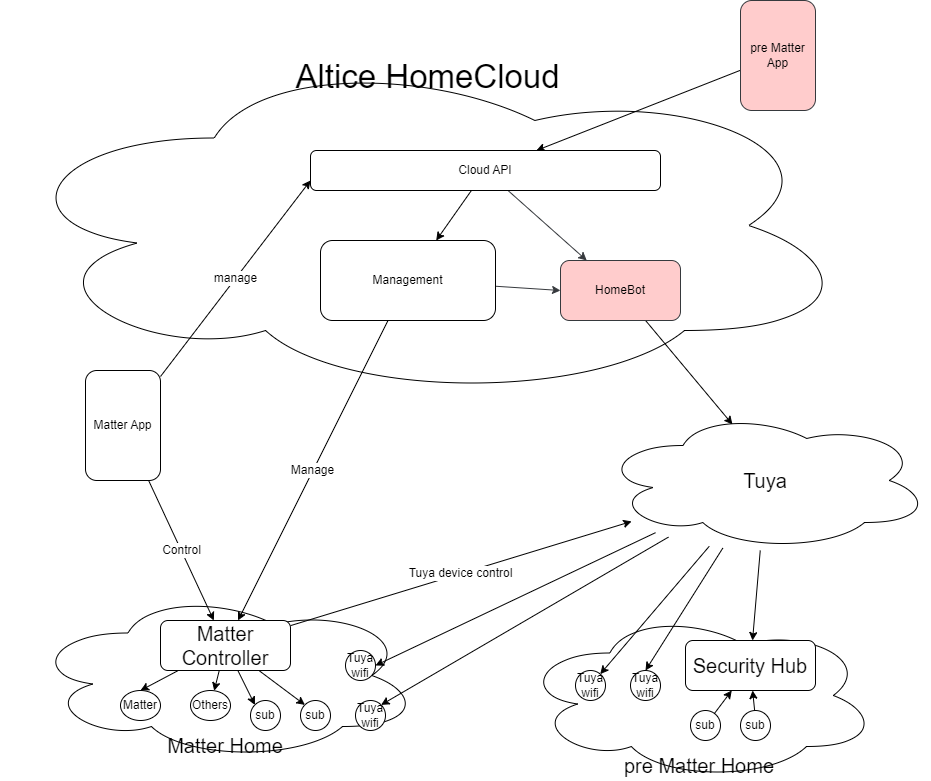
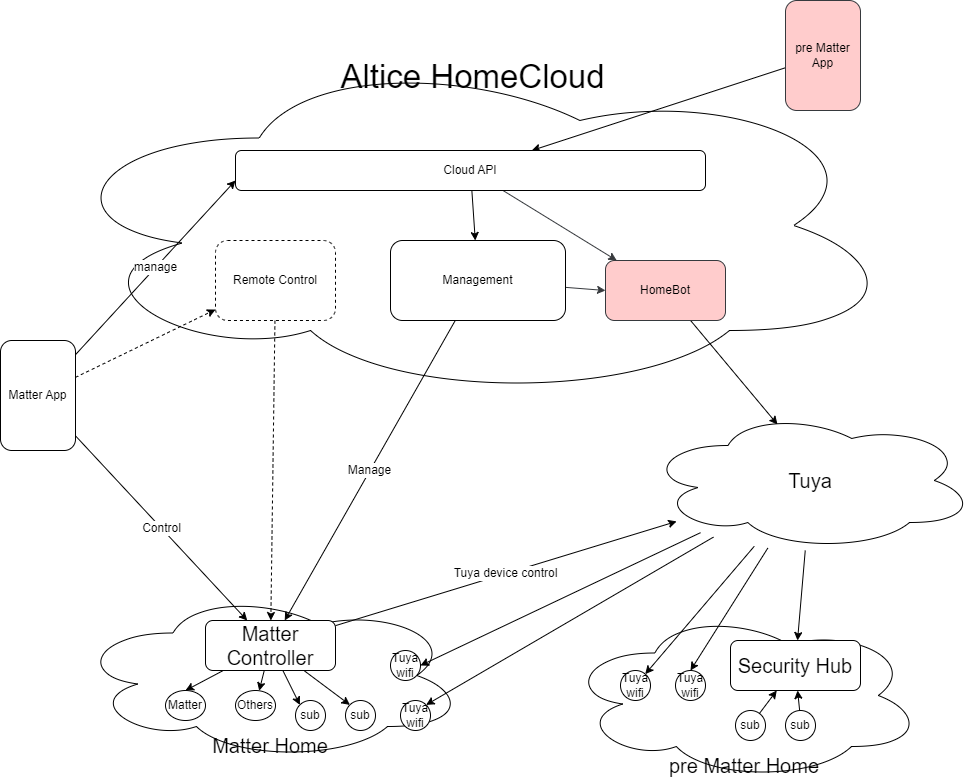
arch update

diff --git a/arch_matter.md b/arch_matter.md
@@ -60,15 +60,15 @@
 - Analytics
 - ...
 
-
-
-
+**[Management API functionalities](management_api.md)**
 
 
 ## Matter Arch with HomeBot (mid step)
 
 
 ![](Matter%20with%20HomeBot.png)
+
+To simplify integration with HomeBot we should consider skip Matter Local control
 
 **HomeBot features**
 
@@ -95,4 +95,10 @@ Functionalities that are currently provided by HomeBot:
 
 **Manager**
 
+tbd
 
+## Migration Strategy
+
+Avoid maintenance of duplicated components eg Mobile App. As soon as (target) Matter App is released, legacy will not evolve. End-users will have to upgrade to the new App to benefit of new Matter features and devices
+
+![](migration-strategy1.png)
